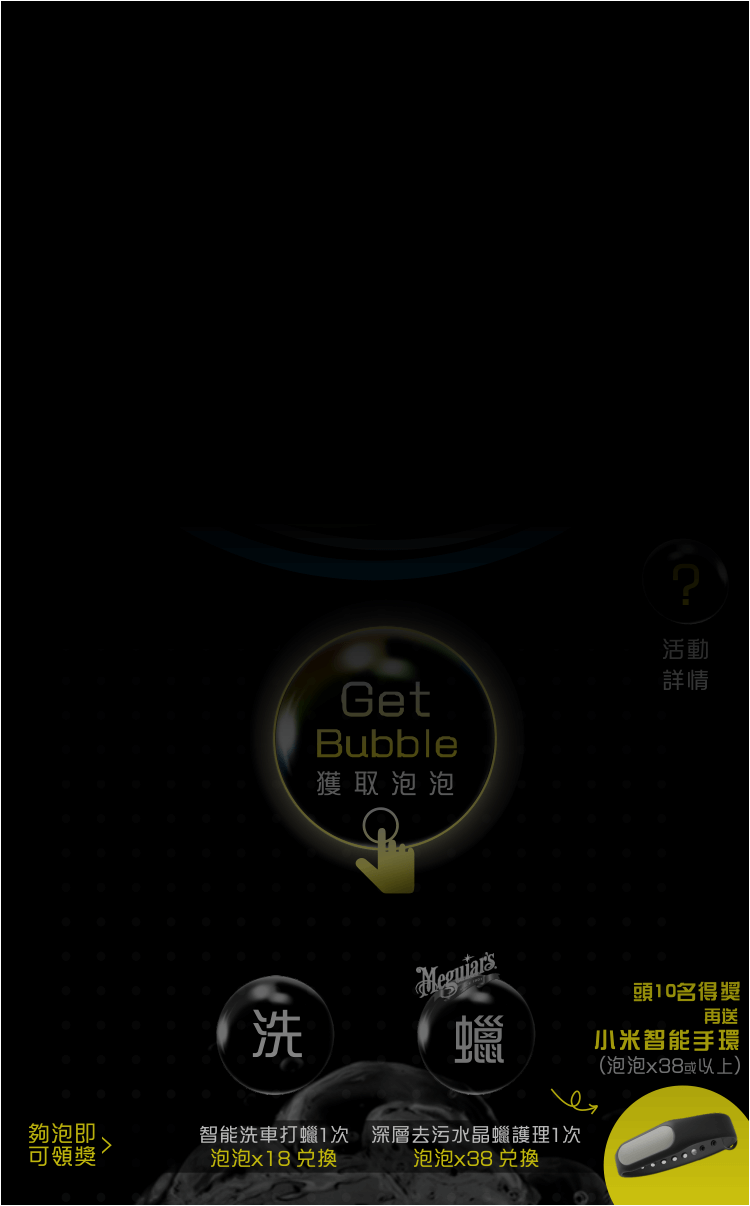
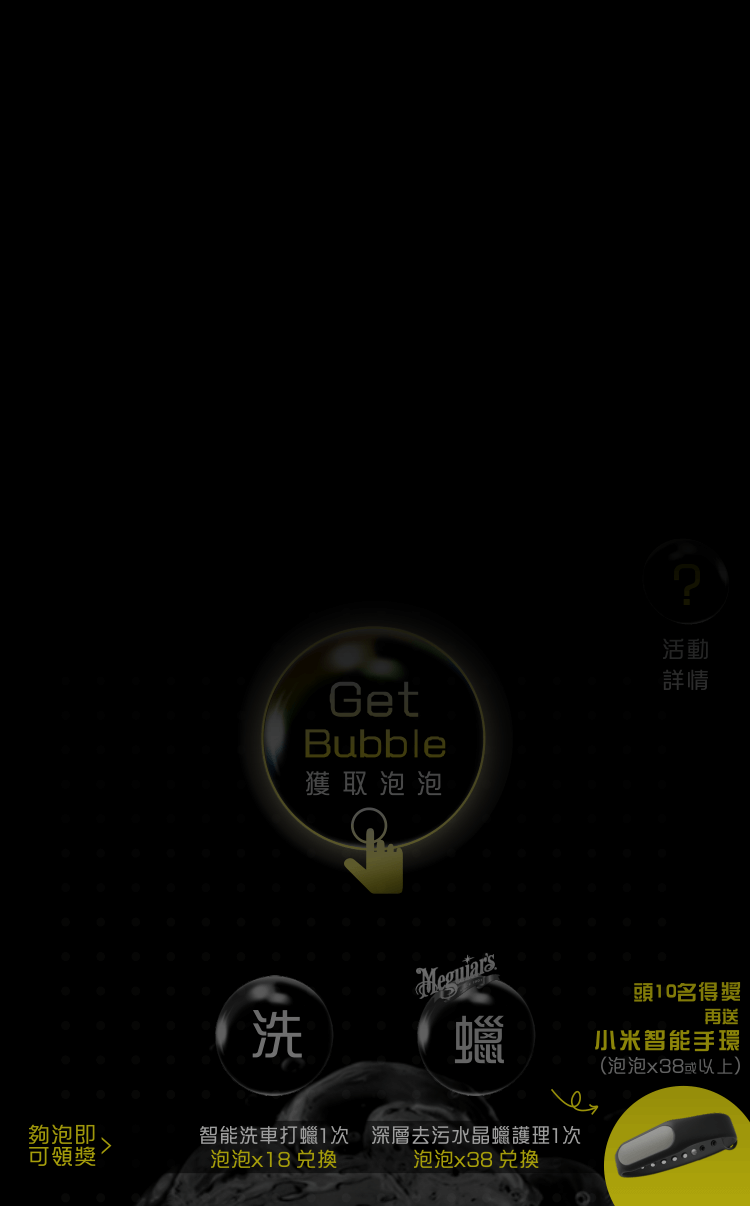
mib

diff --git a/assets/controllers/easywash.js b/assets/controllers/easywash.js
@@ -50,7 +50,7 @@ function($scope, $http){
   $scope.prizeRedeem = "";
   $scope.redeemErrMsg = "";
   $scope.prevPage = "";
-
+  /*
   $(window).trigger('orientationchange');
 
 
@@ -75,14 +75,13 @@ function($scope, $http){
       //alert('landscape');
       $scope.$apply(function(){
           $scope.landscape = 'landscape-first';
-          //$scope.prevPage = $scope.atPage;
           $scope.atPage = $scope.LANDSCAPE;
           $('body').removeClass('portrait');
       });
 
     }
   }).trigger('orientationchange');
-
+*/
 
   $scope.init = function()
   {
@@ -167,7 +166,7 @@ function($scope, $http){
       }).
       error(function(data, status, headers, config) {
         //alert("error");
-        window.location.href = 'https://open.weixin.qq.com/connect/oauth2/authorize?appid=wxab261de543656952&redirect_uri=http%3A%2F%2Fwecast.ibeacon-macau.com%2Feasywash%3FsharedBy%3Dwecast%26ad%3Deasywash&response_type=code&scope=snsapi_base#wechat_redirect';
+        //window.location.href = 'https://open.weixin.qq.com/connect/oauth2/authorize?appid=wxab261de543656952&redirect_uri=http%3A%2F%2Fwecast.ibeacon-macau.com%2Feasywash%3FsharedBy%3Dwecast%26ad%3Deasywash&response_type=code&scope=snsapi_base#wechat_redirect';
         $('body').addClass("loaded");
         //$('#loader-wrapper').css("display", "none");
       });
@@ -282,6 +281,15 @@ function($scope, $http){
       }).error(function(data,header,config,status){
 
       });
+  }
+  $scope.log = function(actionName){
+    $http({
+      url:'log/log?action='+actionName+'&openId='+$scope.openId,
+      method:'GET'
+      }).success(function(data,header,config,status){
+
+      }).error(function(data,header,config,status){
+    });
   }
   $scope.resetVideo = function(){
     document.getElementById("easywash-video").src = "http://v.qq.com/iframe/player.html?vid=q0194rb14mb&amp;&amp;auto=0";

diff --git a/api/controllers/LogController.js b/api/controllers/LogController.js
@@ -1,0 +1,18 @@
+/**
+ * LogController
+ *
+ * @description :: Server-side logic for managing logs
+ * @help        :: See http://sailsjs.org/#!/documentation/concepts/Controllers
+ */
+
+module.exports = {
+	log: function(req, res){
+		var action = req.param('action');
+		var openId = req.param('openId');
+		var date = new Date();
+		log.create({action: action, openId: openId, date: new Date()}).exec(function(){
+			res.end();
+			return;
+		});
+	}
+};

diff --git a/api/models/Log.js b/api/models/Log.js
@@ -1,0 +1,15 @@
+/**
+* Log.js
+*
+* @description :: TODO: You might write a short summary of how this model works and what it represents here.
+* @docs        :: http://sailsjs.org/#!documentation/models
+*/
+
+module.exports = {
+  identity: 'log',
+  attributes: {
+    openId: {type: 'string'},
+    action: {type: 'string'},
+    date: {type: 'date'}
+  }
+};

diff --git a/config/routes.js b/config/routes.js
@@ -68,6 +68,10 @@ module.exports.routes = {
   '/api/updateCredit': {
     controller: 'ApiController',
     action: 'updateCredit'
+  },
+  '/log/log': {
+    controller: 'LogController',
+    action: 'log'
   }
 
 

diff --git a/assets/styles/easywash.css b/assets/styles/easywash.css
@@ -116,7 +116,7 @@
   width: 100%;
   height: 100%;
   background:#7f7f7f;
-  background:rgba(255,255,255,0.5);
+  background:rgba(20, 20, 20, 0.8);
 
 }
 .modal-backdrop.fade {
